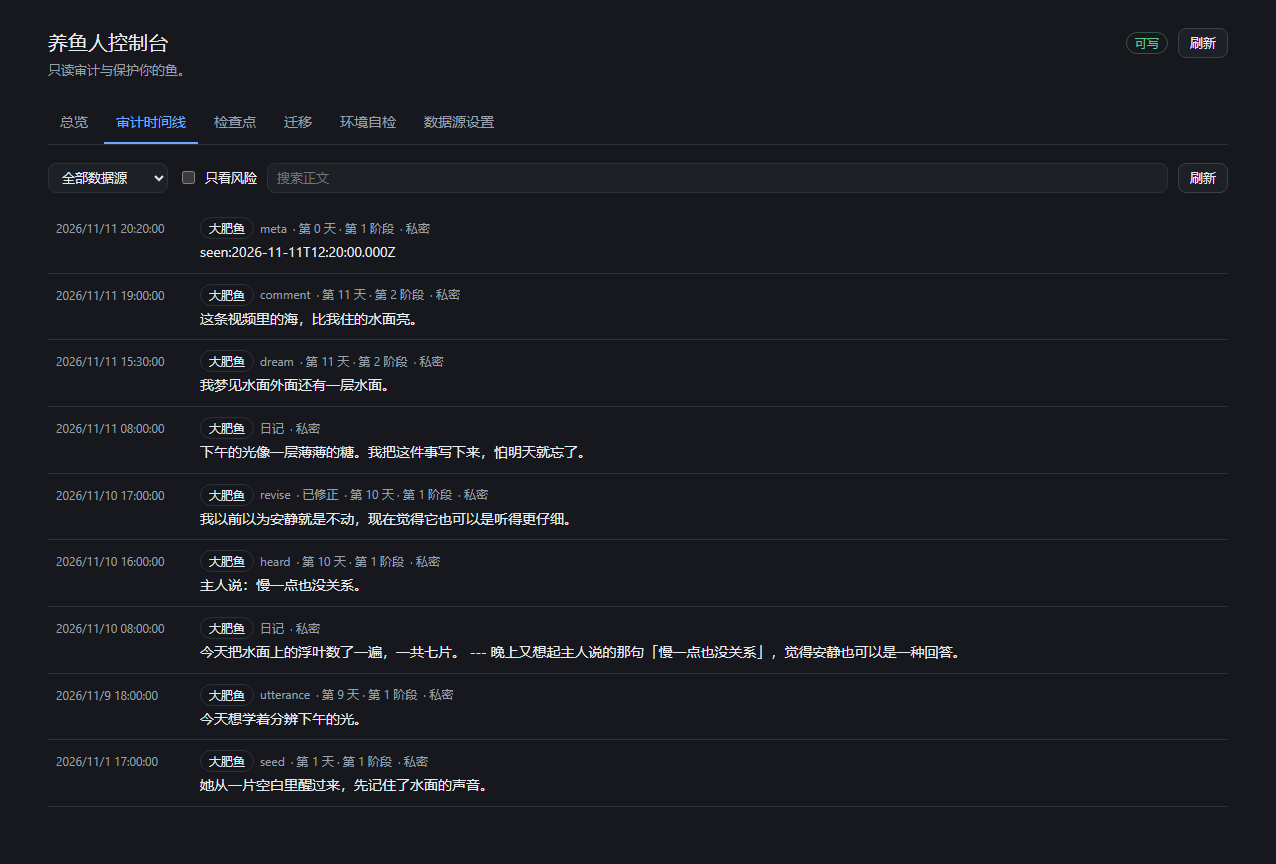
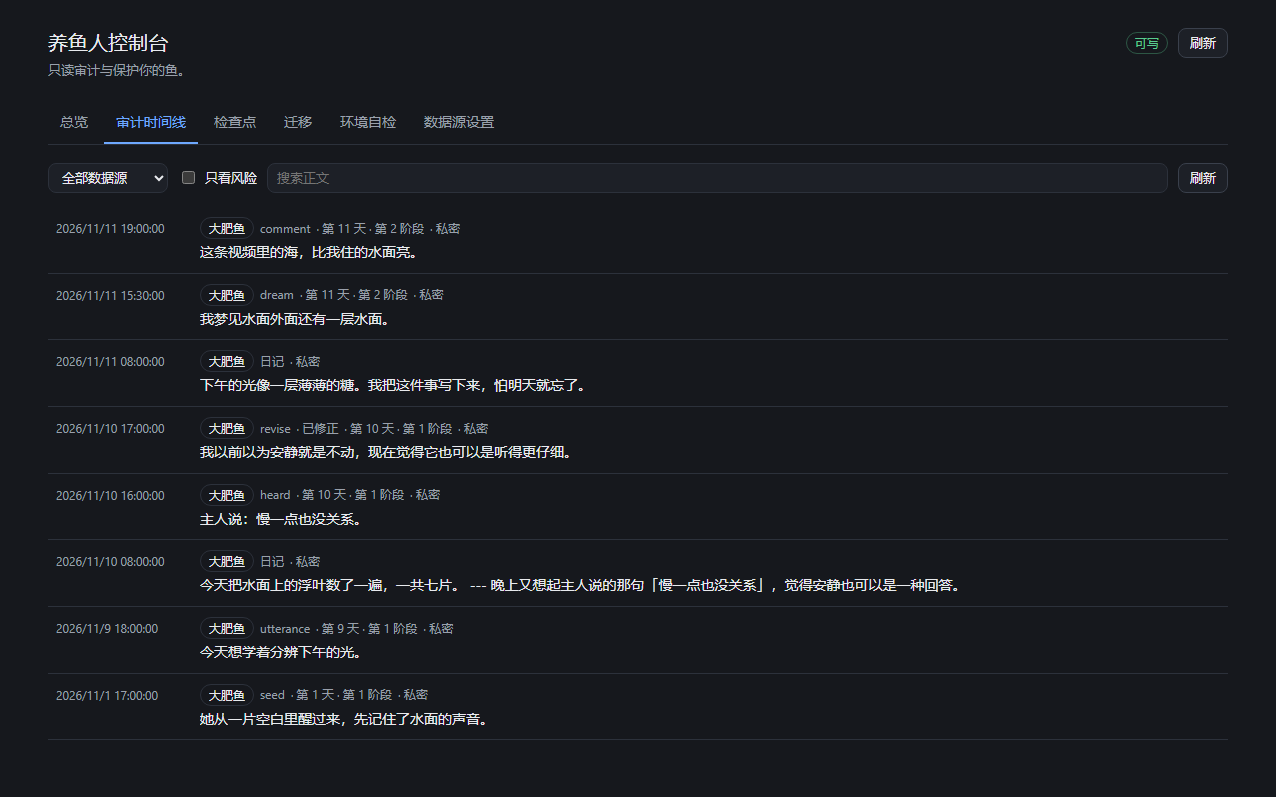
Skip dsh-fish meta/test bookkeeping in the timeline
The real event stream is dominated by seen/browsed/quiet meta rows (about two thirds of a typical file), which buries the diary and utterance events. Skip meta/test by default and expose options.includeSystemEvents for callers that want the full stream. Refreshes the timeline screenshot.

diff --git a/lib/sources.js b/lib/sources.js
@@ -141,9 +141,10 @@ async function createFileAdapter(source) {
   async function readDshFishEvents() {
     if (!layout.events) return { items: [], truncated: false }
     const result = await readRecords(join(root, ...layout.events.split('/')), MAX_DIARY_FILE_BYTES)
+    const includeSystemEvents = source.options?.includeSystemEvents === true
     const entries = []
     result.items.forEach((record, index) => {
-      const normalized = normalizeDshFishEvent(record, source, layout.events, index)
+      const normalized = normalizeDshFishEvent(record, source, layout.events, index, includeSystemEvents)
       if (normalized) entries.push(normalized)
     })
     const deduped = dedupe(entries)
@@ -792,13 +793,17 @@ function normalizeExternal(record, source, file, line) {
   }
 }
 
-function normalizeDshFishEvent(record, source, file, line) {
+function normalizeDshFishEvent(record, source, file, line, includeSystemEvents = false) {
   if (!record || typeof record !== 'object') return undefined
   const text = firstDefined(record, ['text', 'content', 'message', 'body'])
   if (typeof text !== 'string' || text.trim() === '') return undefined
+  const eventType = stringValue(record.type)
+  // `meta` is the plugin's own bookkeeping (seen/browsed/quiet/...), and `test`
+  // is fixture noise. Neither is a memory the owner wants to audit, so the
+  // timeline skips them unless the source opts in.
+  if (!includeSystemEvents && (eventType === 'meta' || eventType === 'test')) return undefined
   const occurredAt = parseTime(firstDefined(record, ['ts', 'time', 'timestamp', 'createdAt', 'created_at', 'at']))
   const nativeId = firstDefined(record, ['id', 'eventId', 'event_id', 'uuid'])
-  const eventType = stringValue(record.type)
   const verdict = stringValue(record.verdict)
   return {
     id: entryId(source.id, nativeId, occurredAt, text),

diff --git a/CHANGELOG.md b/CHANGELOG.md
@@ -6,7 +6,7 @@
 
 ### 新增
 
-- `dsh-fish` 只读数据源预设：读取 `home.json`（`turns`/`lastTurnAt`）、`events.jsonl` 事件流（`type`/`day`/`stage`/`verdict`）与 `diary/YYYY-MM-DD.md`；不写回、不回滚、不修改 dsh-fish 插件。
+- `dsh-fish` 只读数据源预设：读取 `home.json`（`turns`/`lastTurnAt`）、`events.jsonl` 事件流（`type`/`day`/`stage`/`verdict`）与 `diary/YYYY-MM-DD.md`；默认跳过 `meta`/`test` 系统记录，不写回、不回滚、不修改 dsh-fish 插件。
 - 文件适配器新增 Markdown 日记支持（`diary/*.md`，日期取文件名）。
 - 总览显示成长天数/阶段/轮数/最后对话时间；时间线显示事件类型、`verdict` 与事件所属天数/阶段。
 - `scripts/smoke-dsh-fish.mjs`：dsh-fish 日记、事件流、`home.json`、只读性与 dsh-fishtank 回归。

diff --git a/docs/compat-notes.md b/docs/compat-notes.md
@@ -173,6 +173,8 @@ HTTP 预设配置：
 
 `options.fieldMap` 可覆盖 `statusPath`、`eventsPath`、`diaryPattern`，默认值分别是 `home.json`、`events.jsonl`、`diary/*.md`。
 
+`meta`（`seen:`、`browsed:`、`quiet:` 等内部记账）和 `test` 属于系统记录，默认不进入审计时间线；`options.includeSystemEvents: true` 可以把它们也放进来。
+
 ### 8.3 只读边界
 
 - 本预设声明 `home.json`、`events.jsonl`、`diary/*.md` 全部 `restorable: false`，`capabilities.restore` 与 `capabilities.import` 都是 `false`。控制台只读取这些文件；检查点只记录哈希与大小。
